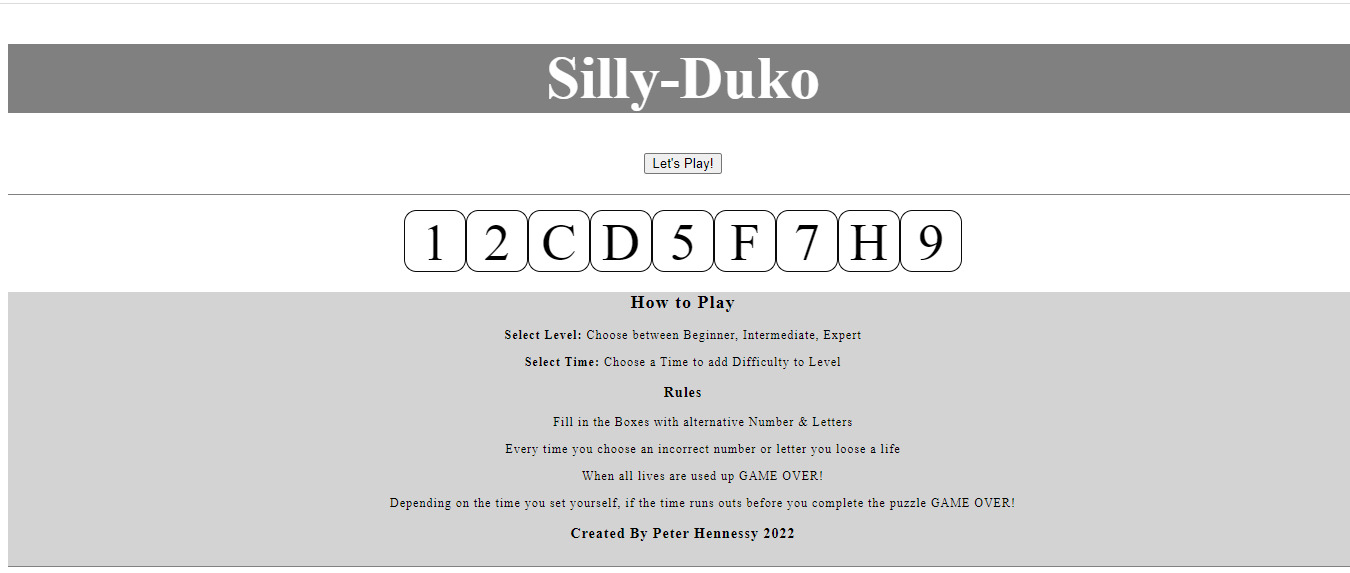
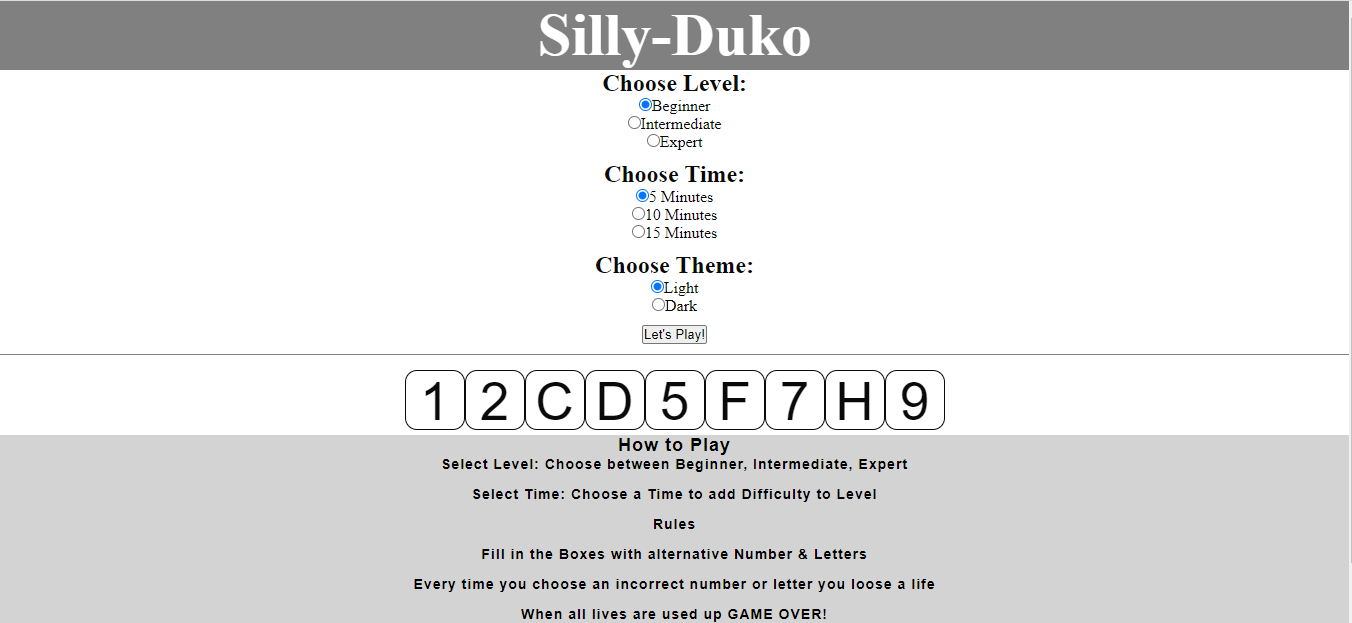
Create Additional input for readme

diff --git a/README.md b/README.md
@@ -41,7 +41,7 @@ Not at any point shall the same number be duplicated in the Same line or section
 
 
 # Wireframes
-![Silly-Duko wireframes](assets/images/wireframe-1.png)
+![Silly-Duko wireframes](assets/readme-images/wireframe-1.png)
 
 
  [Top](<#contents>)
@@ -61,27 +61,25 @@ For my project I decided to choose two fonts, Archivo as the text font and Robot
 - ### Color Scheme
 For this project I decided on a traditional color scheme of #0a0a0a which in a very _Dark Gray (mostly black)_ and #fff which is a _White_, and rgb(9,200,255) which is a shade of _Teal_  for the dark theme. 
 
-To Check The Contrast between **Text** and **Background** I used [Color Contrast](https://coolors.co/contrast-checker/112a46-acc8e5)
+To Check The Contrast between **Text** and **Background**  on both the **light & Dark**I used [Color Contrast](https://coolors.co/contrast-checker/112a46-acc8e5)
 
-![Contrast Color](assets/css/images/readme-images/contrast-1.png) ![Contrast Color](assets/css/images/readme-images/contrast-2.png) ![Contrast Color](assets/css/images/readme-images/contrast-4.png)
+![Contrast Color](assets/readme-images/contrast-1.png) ![Contrast Color](assets/readme-images/contrast-2.png) ![Contrast Color](assets/readme-images/contrast-4.png)
 
  [Top](<#contents>)
 # Features
 ### Challenge Menu
 This is situated in the upper bar of corner of the across all three pages to create continuity across the platform. Starting left to right this includes the following: 
 - Choose level depending on the knowledge of the game the use has
+- Once the player selects the desired level and time they then hit the **Let's Play** button which will start the game
 - Choose a time to add to the callenge of the game, if the tme runs out before the game is complete then  **Game Over!!!**
 
 - #### Home 
-![SILLY-DUKO landing page](assets/css/images/readme-images)
-This section has the landing Image with the Animated Circle cover text, this is created to draw the attention of the user to what the company does in a short brief text, but enough to draw curiosity of the user to look further
-
-- 
-
-- 
+![SILLY-DUKO landing page](assets/readme-images/screen-1.png) ![SILLY-DUKO open landing page](assets/readme-images/screen-2.png)
+- In Image 1 the user is greeted by a screen with level, time, and theme options. The rules are at the bottom of the page. Once the user selected the desired option, rwads the rules , then they press the **Ler's Play** button.
+- In Image 2 the game appears with the clock counting down, and the lives clearly dispkayed
 
 - #### Footer
-On the Footer of the page the rules are outlined, the player must select the desired level, the desired time and the the **Let's Play** button. 
+On the Footer of the page the rules are outlined to explain to the player hoe the game works
 
 
  # Future Features
@@ -98,6 +96,7 @@ On the Footer of the page the rules are outlined, the player must select the des
 * [Balsamiq](https://balsamiq.com/wireframes/) - used to create the wireframes.
 * [Gitpod](https://www.gitpod.io/#get-started) - used to deploy the website.
 * [Github](https://github.com/) - used to host and edit the website.
+* [JavaScript](https://www.w3schools.com/js/) - prvides the interactivity for the game
 
  [Top](<#contents>)
 
@@ -116,12 +115,12 @@ The site was deployed to GitHub pages. The steps to deploy a site are as follows
   3. Under **Source**, select the branch to **master**, then click **save**.
   4. Once the master branch has been selected, the page will be automatically refreshed with a detailed ribbon display to indicate the successful deployment.
 
-![GitHub pages deployed image HERE](assets/css/images/readme-images/deploy.png)
+![GitHub pages deployed image HERE](assets/readme-images/deploy.png)
 
-  The live link to the Github repository can be found here -  https://github.com/Peter-Hennessy/HACCP-FLOW
+  The live link to the Github repository can be found here -  https://peter-hennessy.github.io/silly-doku/
 
 ### **To create a local clone of this project**
-The method from cloning a project from GitHub is below:
+The method from cloning a project from GitHub is below: ![Cloned Repository](assets/readme-images/clone.png)
 
 1. Under the repository’s name, click on the **code** tab.
 2. In the **Clone with HTTPS** section, click on the clipboard icon to copy the given URL.
@@ -136,10 +135,7 @@ The method from cloning a project from GitHub is below:
 ### Content
 
 * The font came from [Google Fonts](https://fonts.google.com/).
-* The locator is embedded from [Google Maps](https://www.google.com/maps).
-* The icons came from [Font Awesome](https://fontawesome.com/).
-* The form structure was found on [W3 schools](https://www.w3schools.com/howto/howto_css_contact_form.asp)
-* The inspiration for the Project page layout came from the [Love Running]
+* The concept for the game game from a online tutorial form 
 * [Balsamiq](https://balsamiq.com/wireframes/) was used to create the wireframes.
 
  [Top](<#contents>)
